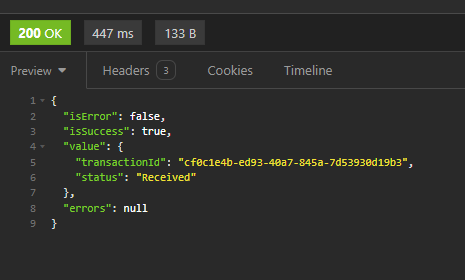
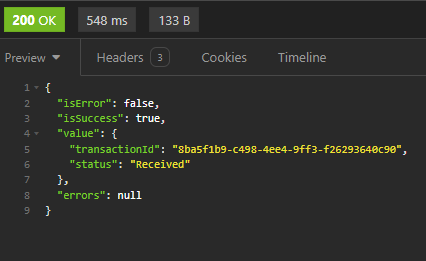
folder

diff --git a/README.md b/README.md
@@ -47,7 +47,7 @@ Both `AcquiringBankSimulator` and `PaymentGateway.Api` should be started
 ```bash
   GET https://localhost:7035/Payments/{TransactionId}
 ```
-![App Screenshot](https://via.placeholder.com/468x300?text=App+Screenshot+Here)
+![App Screenshot](Screenshot2.png)
 
 ### Update payment request status
 ```bash
